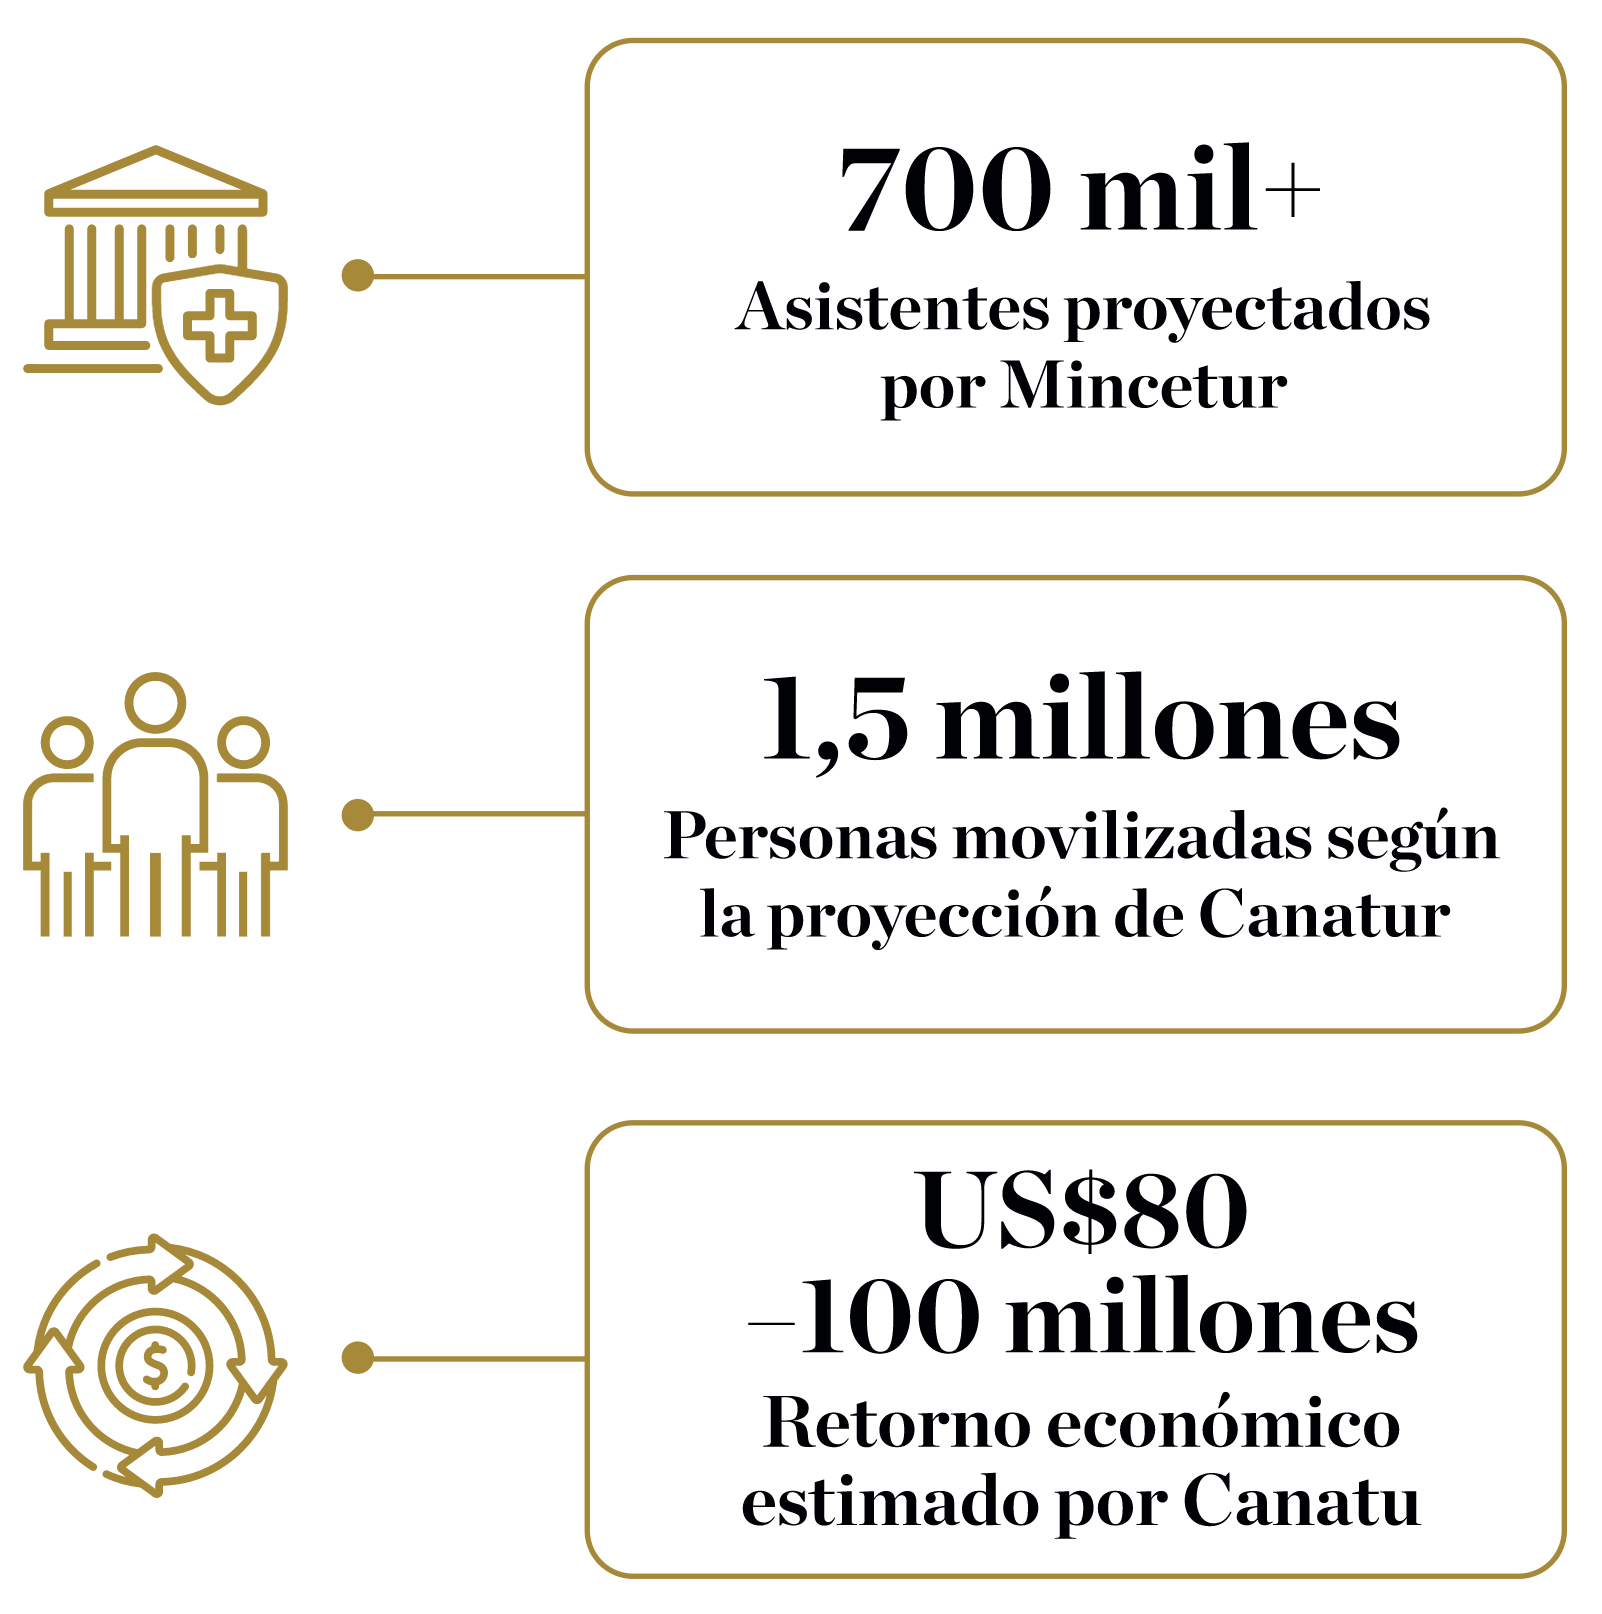
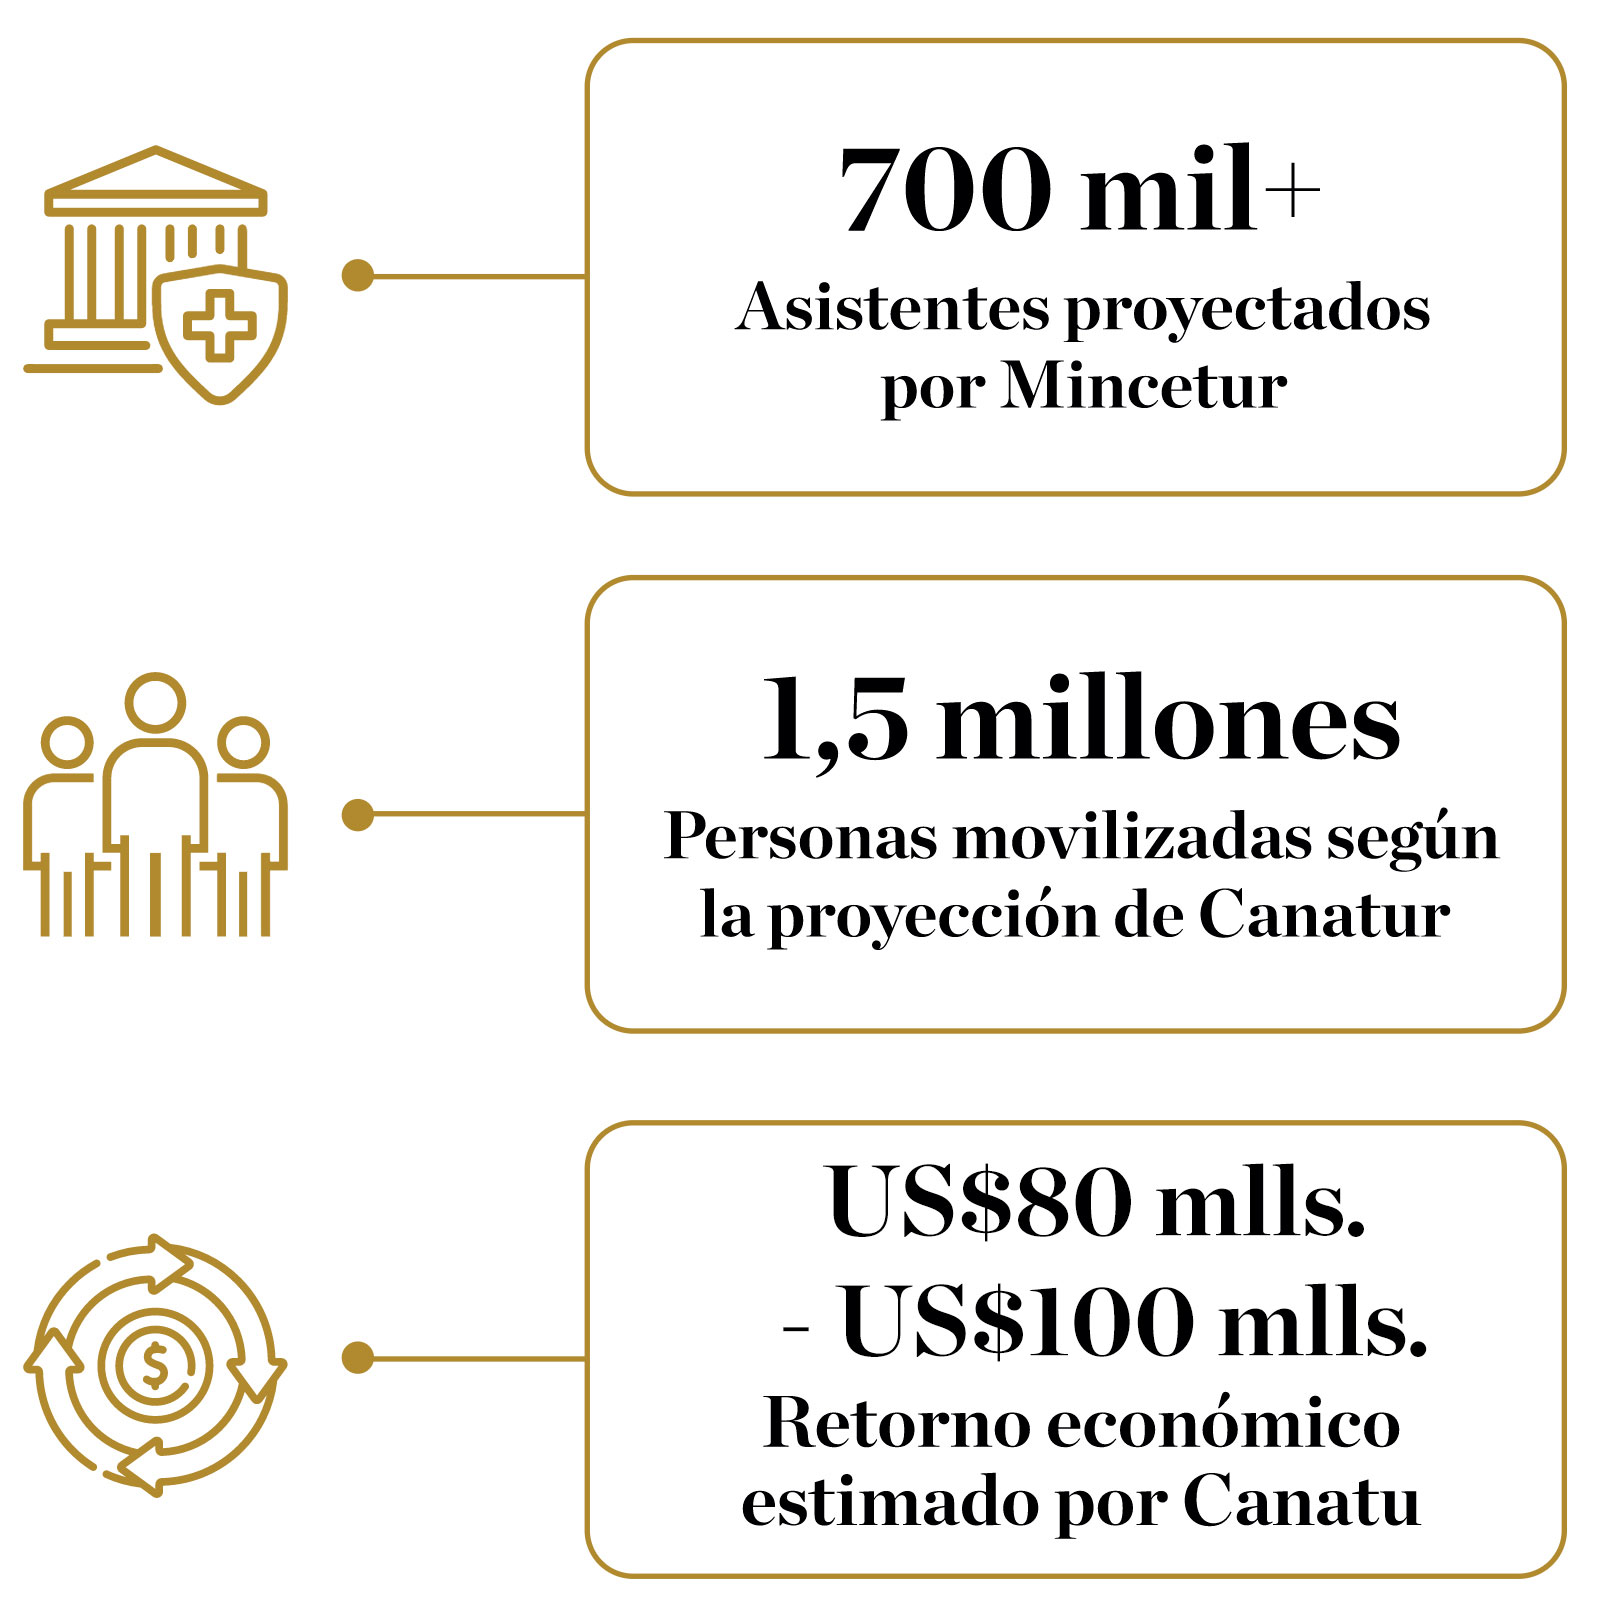
más cambios

Changed region(s): [[0.4994, 0.7125, 0.9051, 0.8364]]

diff --git a/js/script.js b/js/script.js
@@ -520,7 +520,7 @@
             items: [
                 { time: '5:30 p. m.', text: 'Llegada a la Base Aérea del Callao' },
                 { time: '6:15 p. m.', text: 'Ceremonia de bienvenida en Palacio de Gobierno' },
-                { time: '6:45 p. m.', text: 'Visita al presidente de la República' },
+                { time: '6:45 p. m.', text: 'Visita a la presidenta de la República' },
                 { time: '7:45 p. m.', text: 'Encuentro con autoridades, sociedad civil y cuerpo diplomático en el Gran Teatro Nacional' }
             ]
         },
@@ -533,7 +533,7 @@
                 { time: '9:30 a. m.', text: 'Encuentro con los obispos del Perú' },
                 { time: '10:20 a. m.', text: 'Celebración en la Catedral de Lima' },
                 { time: '11:30 a. m.', text: 'Encuentro sobre los desafíos y las esperanzas para el futuro del pueblo peruano' },
-                { time: '6:00 p. m.', text: 'Vigilia con jóvenes y universitarios en el Estadio Monumental' }
+                { time: '6:00 p. m.', text: 'Vigilia con jóvenes y universitarios en el Estadio Nacional' }
             ]
         },
         {
@@ -863,7 +863,7 @@
             year: '2008 - 2012',
             image: './img/timeline-horizontal/bg-item-11.jpg',
             imageCredit: 'Foto: Fray Génesis Pacaldo Labana',
-            headline: 'Continuó liderando la Orden de San Agustín a escala internacional.',
+            headline: 'Continuó liderando la Orden de San Agustín en el mundo.',
             peru: 'El Perú vivió un período de crecimiento económico durante el segundo gobierno de Alan García y el inicio del de Ollanta Humala.',
             mundo: 'La crisis financiera de 2008 desencadenó una recesión mundial. En 2011 comenzaron las revueltas de la Primavera Árabe.'
         },
@@ -905,7 +905,7 @@
             year: '2021',
             image: './img/timeline-horizontal/bg-item-2021.jpg',
             imageCredit: 'Foto: Caritas Chiclayo',
-            headline: 'En la Diócesis de Chiclayo, el obispo Prevost trabajó en acciones concretas durante la emergencia por la pandemia del COVID-19, destacando su labor en la junta directiva de Cáritas del Perú. Impulsó obras sociales, visitas a los sectores más vulnerables, entrega de alimentos y refugio. Inauguró y bendijo una planta de oxígeno medicinal en el distrito de Mochumí, en la provincia de Lambayeque.  ',
+            headline: 'En la Diócesis de Chiclayo, lideró acciones concretas durante la emergencia por la pandemia del COVID-19: obras sociales, entrega de alimentos y refugio.',
             peru: 'El presidente Castillo termina el 2021 involucrado en chats que revelaban presiones desde el gobierno para imponer ascensos militares. ',
             mundo: 'El 2021 los talibanes retomaron el poder en Afganistán tras 20 años; en tanto, Angela Merkel dejó la cancillería alemana luego de 16 años. Fuente: Archivo El Comercio'
         },
@@ -924,6 +924,14 @@
             headline: 'Desde Roma mantuvo su vínculo con el Perú y visitó Chulucanas, donde había comenzado su misión en 1985.',
             peru: 'Persistió la crisis de confianza en las instituciones del país.',
             mundo: 'París acogió los Juegos Olímpicos, que reunieron a deportistas de todo el mundo.'
+        },
+        {
+            year: '2025',
+            image: './img/timeline-horizontal/bg-item-2025.jpg',
+            imageCredit: 'Foto: Paul Sunción',
+            headline: 'León XIV fue elegido Papa el 8 de mayo de 2025, en la cuarta votación del cónclave, convirtiéndose en el pontífice número 267 de la Iglesia católica.',
+            peru: 'xxxxx',
+            mundo: 'xxxxx'
         },
         {
             year: '2026',

diff --git a/index.html b/index.html
@@ -206,7 +206,7 @@
             El Ministerio de Comercio Exterior y Turismo estima que podrían movilizarse más de 700 mil asistentes, entre viajeros y residentes locales, según información recogida por El Comercio. 
         </p>
         <p>
-            La Cámara Nacional de Turismo eleva la proyección hasta <span>1,5 millones de personas</span> y calcula que una inversión de entre <span>US 15 millones US 20 millones</span> podría producir un retorno de entre <span>US 80 millones y 100 millones</span>, tomando como referencia experiencias anteriores. 
+            La Cámara Nacional de Turismo eleva la proyección hasta <span>1,5 millones de personas</span> y calcula que una inversión de entre <span>US$15 millones y US$20 millones</span> podría producir un retorno de este <span>US$80 millones y US$100 millones</span>, tomando como referencia experiencias anteriores. 
         </p>
         <img src="./img/cifras-economia.jpg" alt="" width="100%">
         <p>
@@ -260,7 +260,9 @@
         <h3>
             El mural del Papa
         </h3>
-        <p>Disfruta de este trabajo elaborado por nuestros ilustradores Víctor Aguilar y Giovanni Tazza. Ubícalo en el Jr. Loreto, frente al Parque del Niño Gaelito, donde estará ubicada también la estatua del sumo Pontífice de 14 metros, en el inicio de la Costa Verde del Callao.</p>
+        <p>
+            Nuestros ilustradores, Víctor Aguilar y Giovanni Tazza, crearon este extraordinario trabajo que puede ser apreciado en el Jr. Loreto, frente al Parque del Niño Gaelito. Y es justo en ese parque donde estará ubicada la estatua de 14 metros de altura del sumo pontífice, justo al inicio de la Costa Verde del Callao.
+        </p>
         <img src="./img/hint-scroll.png" alt="" width="100%" class="hint-scroll-horizontal">
     </div>
 
